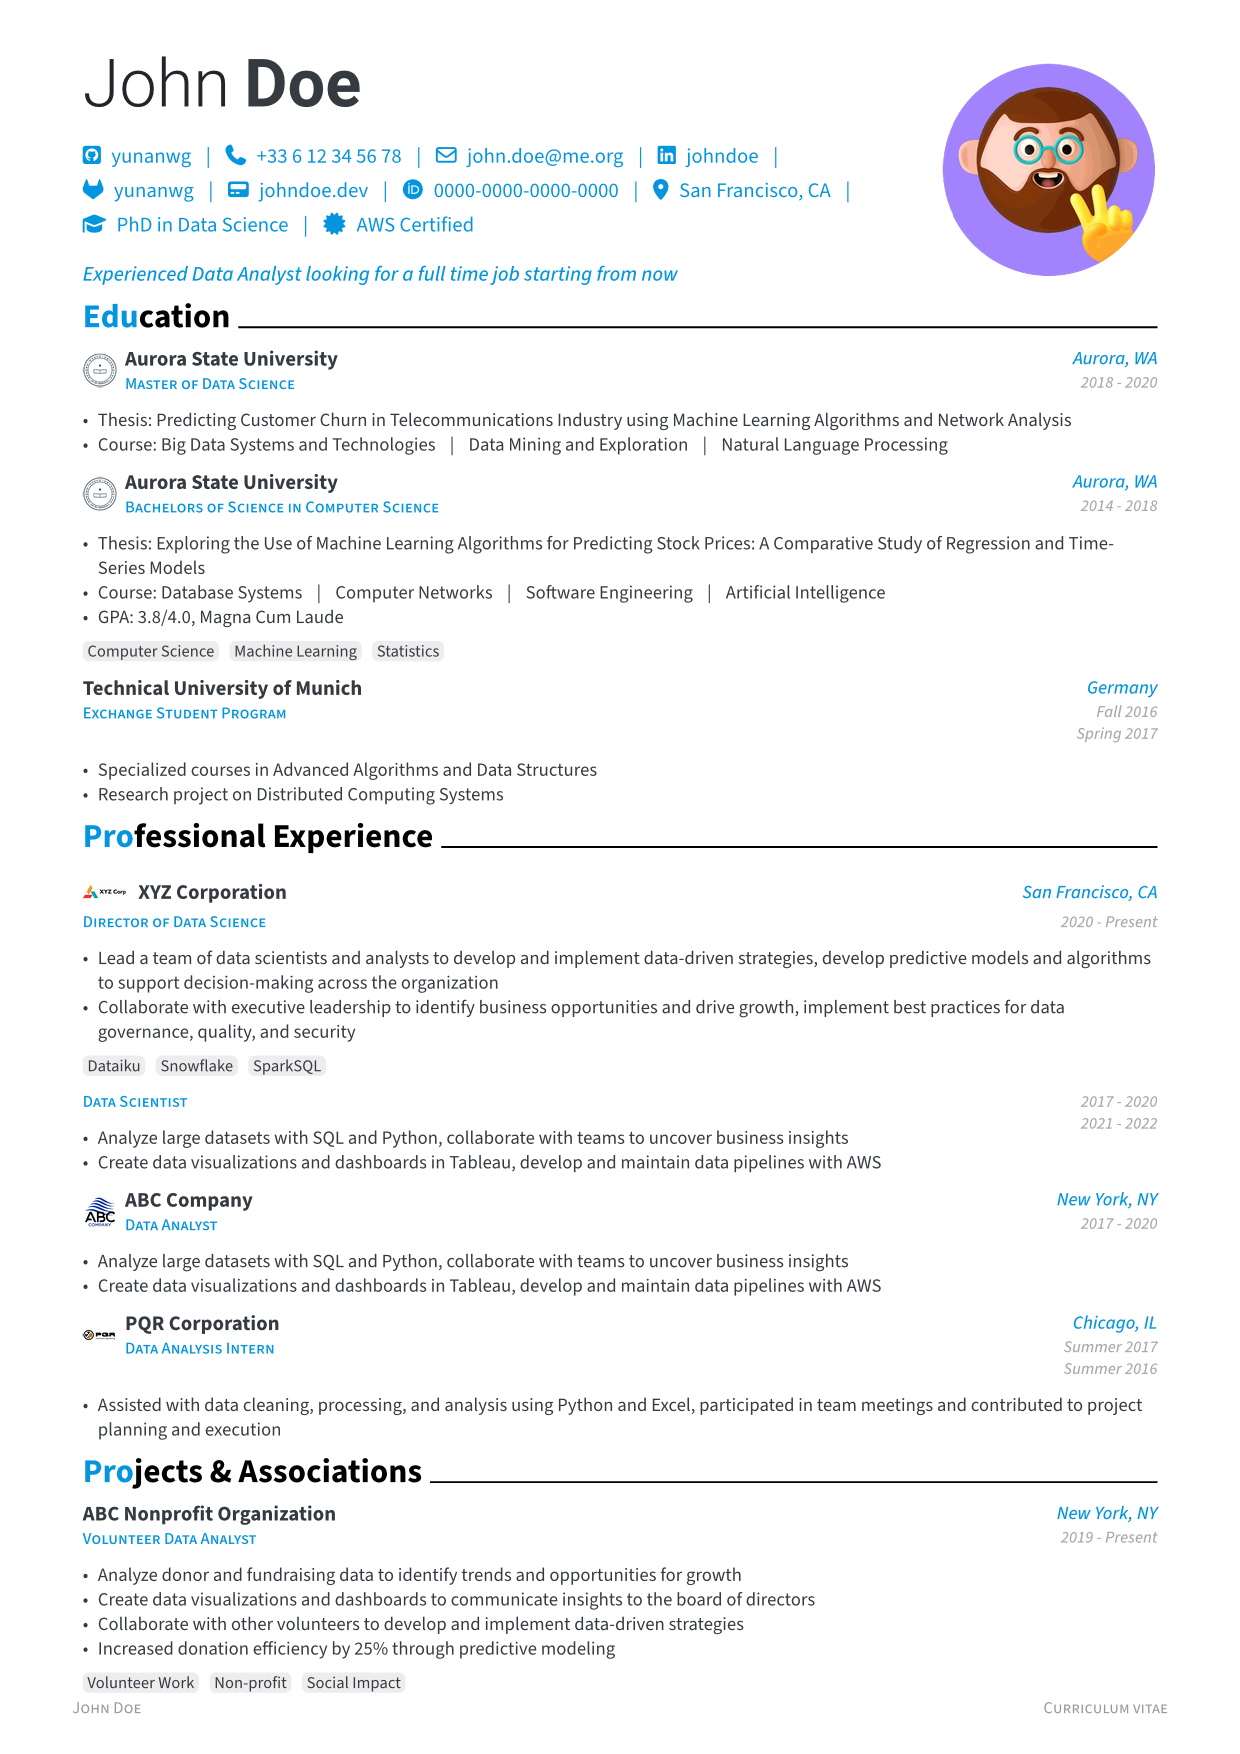
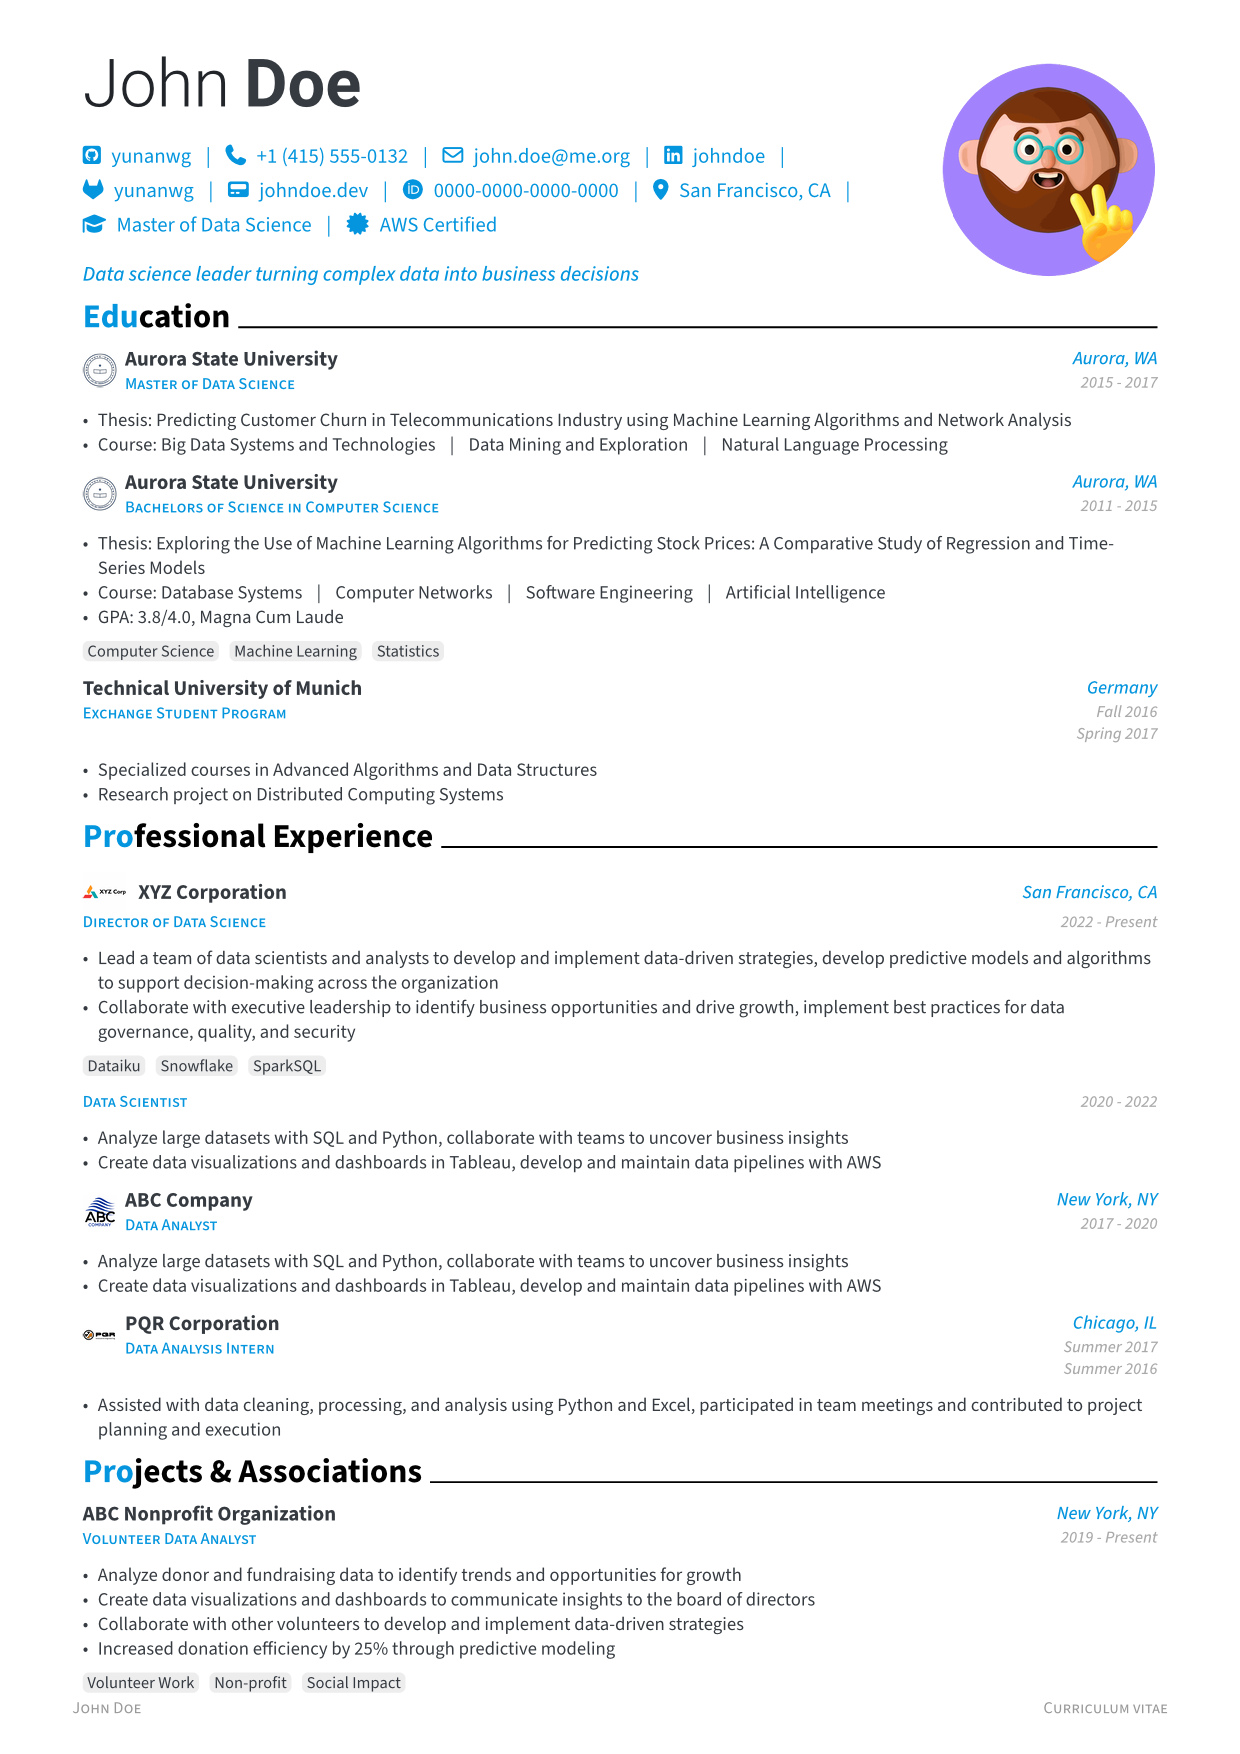
fix(template): make starter profiles internally consistent
Users' agents read a freshly initialized starter as the candidate's real
record. The sample profiles contradicted themselves: a "PhD" header badge
over a Master's degree, full-time jobs overlapping the degree and each
other, a French phone number in San Francisco, a current job in
San Francisco for profiles living in Berlin/Paris/Milan/Shanghai,
publications not authored by the candidate, certification tags with no
matching certificate, and a cover letter applying to a former employer
for a role the CV does not list.

Align every profile to one timeline (BSc 2011-2015, Master 2015-2017,
ABC 2017-2020, XYZ 2020-present in the header city), make John Doe a
co-author of every bib entry, and document the persona in AGENTS.md so
future edits keep it consistent.

Regression refs and README previews are regenerated; only the cv-*
regression suites change.

Changed region(s): [[0.0613, 0.1231, 0.521, 0.1847], [0.2145, 0.0616, 0.4903, 0.0924], [0.521, 0.0616, 0.6129, 0.0924]]

diff --git a/AGENTS.md b/AGENTS.md
@@ -45,6 +45,19 @@ Edit those source comments, then run `just docs-generate`. Every other page unde
 ### Each profile's metadata.toml is the single source of truth for that profile
 All user configuration flows through `template/profile_<name>/metadata.toml`. v4 has no merging or inheritance — one profile = one complete CV configuration. When adding new config options, update the comments in `template/profile_en/metadata.toml` first (it drives docs generation), then mirror to other profiles as needed.
 
+### Starter profile content is read as facts
+Users point their own agents at a fresh `typst init` folder, and those agents treat `template/profile_<name>/` as the candidate's real record — they flag or act on every contradiction. Each profile must be internally consistent: header badges, dates, locations, skill tags, bib authorship, and `template/letter.typ` must agree with the entries. Profiles are separate localized personas, so they do not have to match each other. The shared skeleton is:
+
+| Period | Fact |
+|---|---|
+| 2011–2015 | BSc, Aurora State University |
+| 2015–2017 | Master, Aurora State University (header `custom-degree` says Master, not PhD) |
+| Summers 2016–2017 | Internship, PQR Corporation |
+| 2017–2020 | Data Analyst, ABC Company |
+| 2020–present | XYZ Corporation, located in the profile's header city (`profile_en`: Data Scientist 2020–2022, Director 2022–present) |
+
+John Doe co-authors every entry in `template/assets/publications.bib`. When you edit a date or a role, check every profile that contains it.
+
 ### Typst snippets in `docs/` are compile-tested by hand, not by CI
 `just docs-check` compiles the snippets in the generated `api-reference.md` only. For a snippet you write anywhere else in `docs/`, drop it into a temp `.typ`, set up `cv-metadata.update(minimal-metadata)` from `tests/common.typ`, and run `typst compile --root . <file>` inside the test image. Don't ship code from memory — take every public function name and parameter from the actual signature in `src/`, and match the file you check against the import the snippet uses.
 
